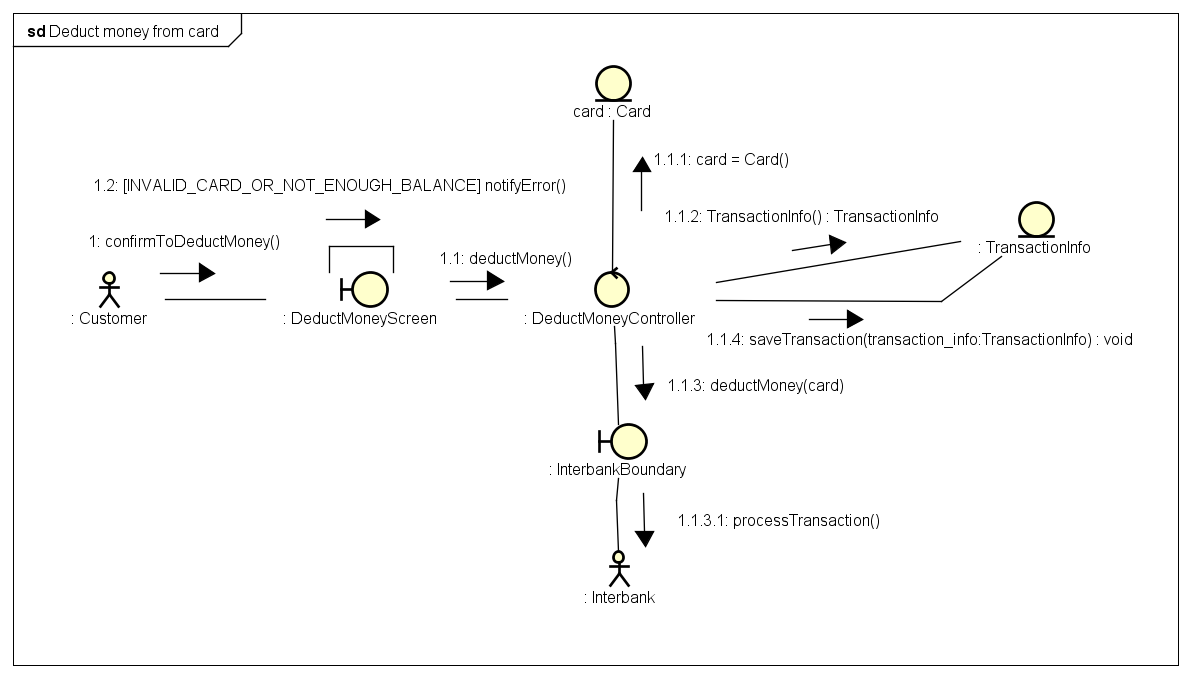
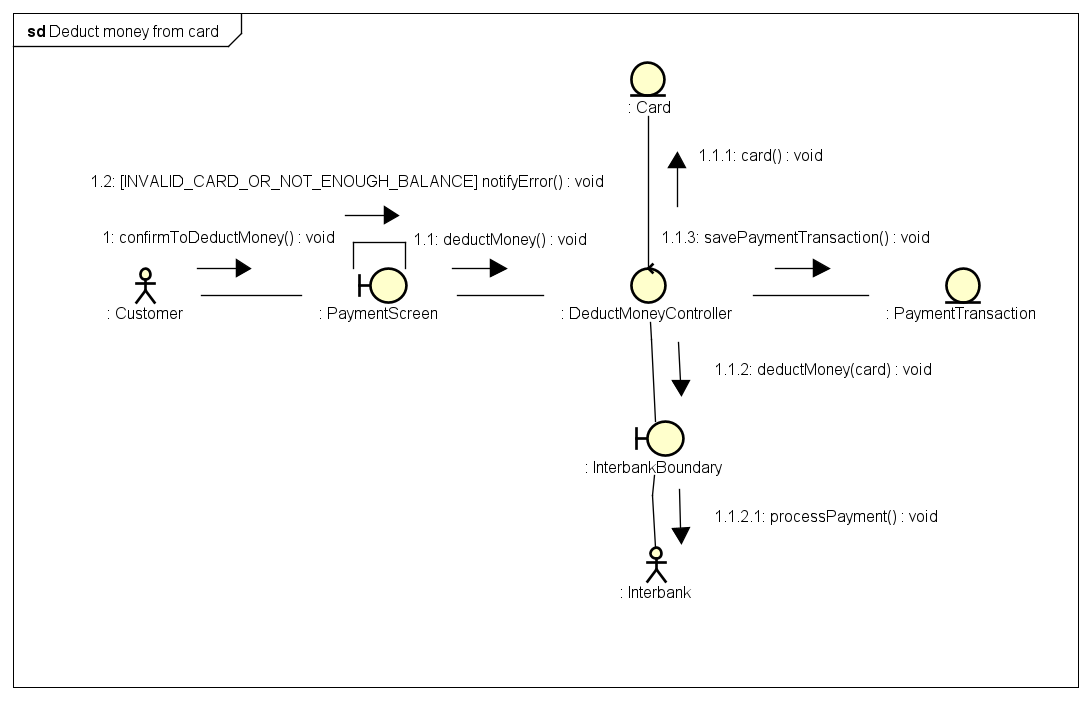
add analysis diagram deduct money+return bike

diff --git a/README.md b/README.md
@@ -1,4 +1,66 @@
-
+# LAB 05 - INTERFACE DESIGN
+## Tasks
+In this lab, we have to design interfaces for our project, including:
+- Design graphical user interface: Screen configuration standardizations, mockup designs, screen transition diagrams, detailed screen specifications
+- Interface design with another system/device: Using subsystem
+## Contributions
+- Tran Thi Hang  : 
+    - README.md
+    - Usecase : 
+- Pham Nhat Linh : 
+    - Usecase : 
+- Duong Thi Hue  : 
+    - Usecase : 
+- Do Minh Thong  :
+    - Usecase : 
+## Revisions
+Reviewer for each member:
+- Tran Thi Hang  : Do Minh Thong
+- Pham Nhat Linh : Duong Thi Hue
+- Duong Thi Hue  : Pham Nhat Linh
+- Do Minh Thong  : Tran Thi Hang
+----------------------------------
+# LAB 04 - ANALYSIS CLASS DIAGRAM
+## Tasks
+In this lab, we have to complete **Analysis Class Diagram** for some use cases and complete the merged analysis class diagrams for them
+## Contributions
+- Tran Thi Hang  : 
+    - README.md
+    - Usecase : Return Bike, Deduct money from card
+- Pham Nhat Linh : 
+    - Usecase : Rent Bike, Deduct money from card
+- Duong Thi Hue  : 
+    - Usecase : View Station Information and View Bike Information
+- Do Minh Thong  :
+    - Usecase : Select a dock marker on list
+- All team members: merged analysis class diagram
+## Revisions
+Reviewer for each member:
+- Tran Thi Hang  : Duong Thi Hue
+- Pham Nhat Linh : Tran Thi Hang
+- Duong Thi Hue  : Do Minh Thong
+- Do Minh Thong  : Pham Nhat Linh
+----------------------------------
+# LAB 03 - INTERACTION DIAGRAM
+## Tasks
+In this lab, we have to complete **Interaction Diagrams** (Sequence Diagrams and Communication Diagrams) for some use cases
+## Contributions
+- Tran Thi Hang  : 
+    - README.md
+    - Usecase : Return Bike, Deduct money from card
+- Pham Nhat Linh : 
+    - Usecase : Rent Bike, Deduct money from card
+- Duong Thi Hue  : 
+    - Usecase : View Station Information and View Bike Information
+- Do Minh Thong  :
+    - Usecase : Select a dock marker on list
+## Revisions
+Reviewer for each member:
+- Tran Thi Hang  : Pham Nhat Linh
+- Pham Nhat Linh : Do Minh Thong
+- Duong Thi Hue  : Pham Nhat Linh
+- Do Minh Thong  : Tran Thi Hang
+----------------------------------
 # LAB 02 - USECASE SPECIFICATION
 ## Tasks
 In this lab, we have to complete **Usecase Specifications** for some use cases and **Software Requirement Specification (SRS)**
@@ -31,7 +93,7 @@ All four members of our group contributed to draw Use case diagram
 
 ## Revisions
 Reviewer for each member:
-- Tran Thi Hang  : Duong Thi Hue
+- Tran Thi Hang  : Do Minh Thong
 - Pham Nhat Linh : Tran Thi Hang
 - Duong Thi Hue  : Pham Nhat Linh
 - Do Minh Thong  : Duong Thi Hue
